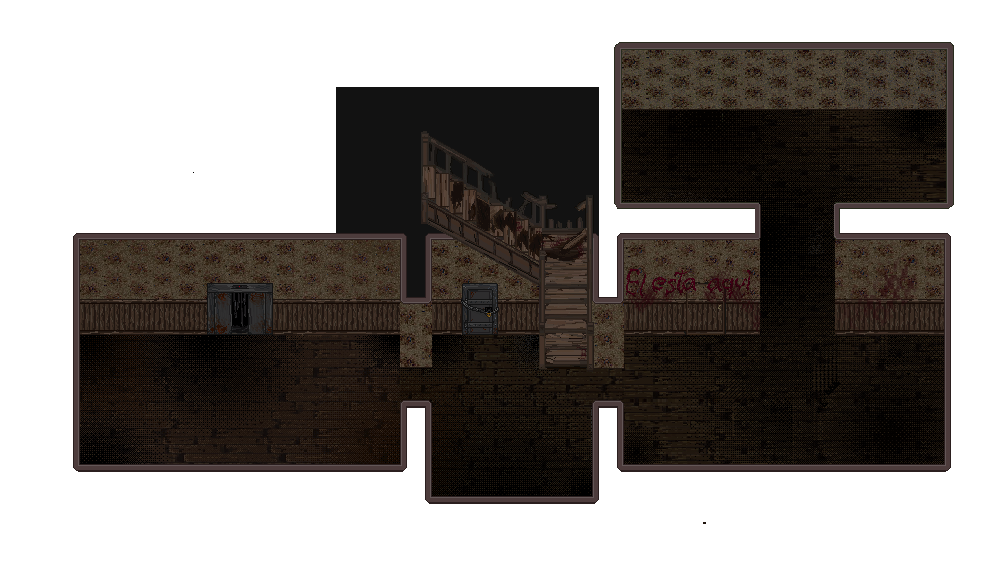
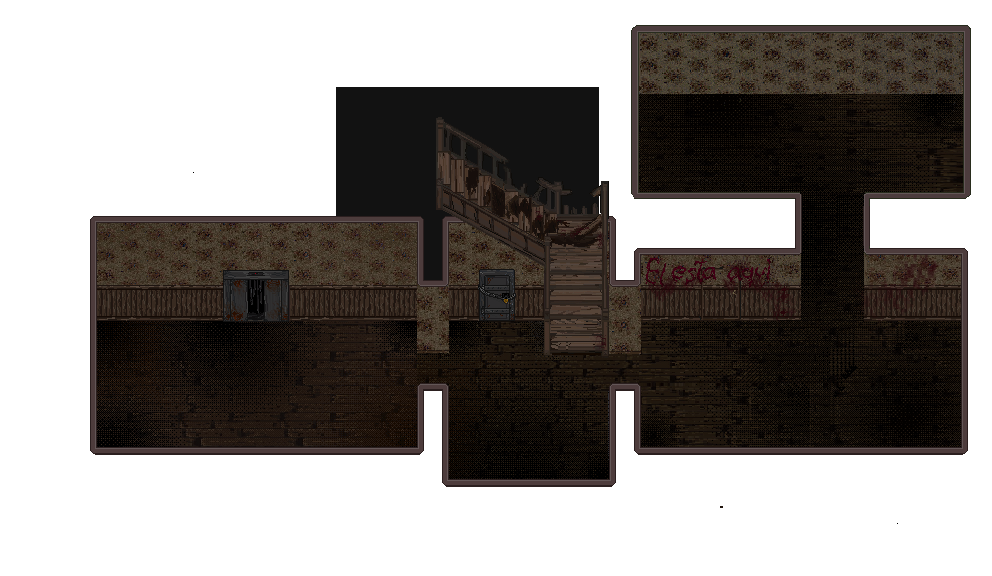
Agregue para posicionar una certijo por tile y acomode el grid de la planta baja

Changed region(s): [[0.0625, 0.0312, 1.0, 0.875]]

diff --git a/src/Modelo/NivelFactory.java b/src/Modelo/NivelFactory.java
@@ -4,9 +4,6 @@ public class NivelFactory {
 
     public Nivel crearNivel(int numeroNivel) throws NivelInvalidoException {
         switch (numeroNivel) {
-            //case 1: va a ser el de la puerta oxidada, es la excepcion
-            //nivel 2: es la excepcion
-            //nivel 3 es el que ya tiene todos nuestras cosas cargadas por ahora
             
             case 1:
                 return crearNivel1(); //la planta baja
@@ -17,23 +14,23 @@ public class NivelFactory {
         }
     }
 
-    //idea a agregar con acertijo e inventario
     private Nivel crearNivel1(){
         Acertijo acertijo = new AcertijoObjeto(1, "La puerta esta atascada por el oxido y no cede. Necesitas lubricar las bisagras.", "Lata de aceite");
     
-        Nivel nivel= new Nivel(1, acertijo, "Recursos/Mapas/Grid/grid_planta_baja.txt" , "/Recursos/Mapas/Imagen/mapa_planta_baja.png" , 12, 8);
+        Nivel nivel= new Nivel(1, acertijo, "Recursos/Mapas/Grid/grid_planta_baja.txt" , "/Recursos/Mapas/Imagen/mapa_planta_baja.png" , 16, 14);
         
         nivel.setRutaSpritesEnemigos("/Recursos/Sprites/Enemigos/Nurse/");
-       //le saco todo hasta poder poner bien lo caminable del grid
-        //nivel.setAcertijoX(300); //TODO: ajustar a la posicion real de la futura puerta secreta que estoy haciendo(mica) en el mapa
-        //nivel.setAcertijoY(200);
-        //nivel.agregarEnemigo(new Enemigo(100, 10, 1, 800, 80));
-       // nivel.agregarEnemigo(new Enemigo(100, 10, 2, 550, 320));
+        //nivel.setAcertijoEnTile(22, 9); TODO: hay que ajustar el panel de acertijo y que coincida cuando implementemos el iventario
+        nivel.agregarEnemigo(new Enemigo(100, 10, 1, 4, 11));
+        nivel.agregarEnemigo(new Enemigo(100, 10, 2, 22, 3));
 
-//el objeto que la puerta oxidada necesita para abrirse. El nombre tiene que coincidir EXACTO
-//sin importar mayusculas, con el que le pasemos a acertijoObjeto de arriba ("Lata de Aceite") 
-//porque asi lo relaciona inventario.contieneItem
-//TTODO: ajustar la posicion (columna, fila) a donde la vamos a esconder en el mapa owo
+        ItemMedicina medicina1 = new ItemMedicina(10,13,10);
+        nivel.agregarItem(medicina1);
+
+        ItemMedicina medicina2 = new ItemMedicina(25,13,10);
+        nivel.agregarItem(medicina2);
+
+        // Estaria bueno cambiar la manera de crear itemes, tengo una idea preguntarme -- ISKARI
 
         //Item lataDeAceite = new Item("Lata de Aceite", "/Recursos/Sprites/Items/lata_aceite.png", 5, 10);
        // nivel.agregarItem(lataDeAceite);
@@ -95,8 +92,6 @@ public class NivelFactory {
 
         Nivel nivel = new Nivel(2, acertijo, "Recursos/Mapas/Grid/grid_sotano.txt","/Recursos/Mapas/Imagen/mapa_sotano.png", 7, 13);
         nivel.setRutaSpritesEnemigos("/Recursos/Sprites/Enemigos/Nurse/");
-        nivel.setAcertijoX(300); // TODO: ajustar estos valores segun donde se quiera que este el acertijo en el mapa
-        nivel.setAcertijoY(200);
         nivel.agregarEnemigo(new Enemigo(100, 10, 1, 800, 80));
         nivel.agregarEnemigo(new Enemigo(100, 10, 2, 550, 320));
 

diff --git a/src/Modelo/Nivel.java b/src/Modelo/Nivel.java
@@ -13,7 +13,7 @@ public class Nivel extends EspacioBase {
     private boolean nivelSuperado;
     private boolean checkpoint; //va a ser una bandera, si es falso no se activa, verdadero activado
     private int accesoSiguienteNivelX, accesoSiguienteNivelY;
-    private int acertijoX, acertijoY; // posicion donde se activa el acertijo del nivel
+    private int acertijoColumna, acertijoFila; // posicion donde se activa el acertijo del nivel
 
     private List<PuntoFlashback> puntosFlashback = new ArrayList<>();
     private List<ZonaMensaje> zonasMensaje = new ArrayList<>();
@@ -82,22 +82,31 @@ public class Nivel extends EspacioBase {
         this.accesoSiguienteNivelY = accesoSiguienteNivelY;
     }
 
-    public int getAcertijoX() {
-        return acertijoX;
+    // LOGICA PARA LOS ACERTIJOS
+
+    public void setAcertijoEnTile(int columna, int fila) {
+        this.acertijoColumna = columna;
+        this.acertijoFila = fila;
     }
 
-    public void setAcertijoX(int acertijoX) {
-        this.acertijoX = acertijoX;
+    public int getAcertijoColumna() {
+        return acertijoColumna;
+    }
+
+    public int getAcertijoFila() {
+        return acertijoFila;
+    }
+
+            // Devuelven el CENTRO del tile en píxeles, así ControladorAcertijo
+            // sigue llamando a getAcertijoX()/getAcertijoY() sin cambios.
+
+    public int getAcertijoX() {
+        return acertijoColumna * MapaColision.TILE + MapaColision.TILE / 2;
     }
 
     public int getAcertijoY() {
-        return acertijoY;
+        return acertijoFila * MapaColision.TILE + MapaColision.TILE / 2;
     }
-
-    public void setAcertijoY(int acertijoY) {
-        this.acertijoY = acertijoY;
-    }
-
 
 //--METODOS--
 

diff --git a/src/Modelo/Enemigo.java b/src/Modelo/Enemigo.java
@@ -39,14 +39,11 @@ public class Enemigo extends Entidad {
 
 //--CONSTRUCTOR--
 
-    public Enemigo(int puntosVida, int danioBase, int idEnemigo, int xInicial, int yInicial) {
+    public Enemigo(int puntosVida, int danioBase, int idEnemigo, int columna, int fila) {
         super(puntosVida);
         this.danioBase = danioBase;
         this.idEnemigo = idEnemigo;
-        setPosicionX(xInicial);
-        setPosicionY(yInicial);
-        this.spawnX = xInicial;
-        this.spawnY = yInicial;
+        colocarEnTile(columna, fila);
     }
 
 //--GET Y SET--
